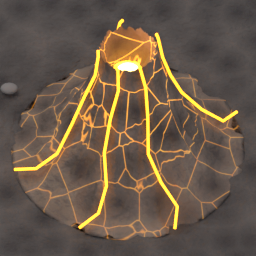
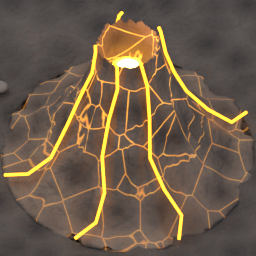
Bozza C: vulcano piu' grande, barre vita avversario dentro il campo e nascoste finche' non si muovono
Claude-Session: https://claude.ai/code/session_01EeKiG8y1kcPbdSHUHGW8AA

Changed region(s): [[0.0, 0.0312, 1.0, 1.0]]

diff --git a/bozze/c/extra.js b/bozze/c/extra.js
@@ -49,3 +49,13 @@
     o.onclick=function(){o.remove()};document.body.appendChild(o);
   });
 })();
+
+/* Bozza C: barre vita avversario sempre dentro il campo; finche' un nemico a piena vita non si e' mosso non mostra la barra. */
+(function(){
+  var _hp=hpBar;
+  hpBar=function(u,x,hy,hw){
+    if(u.o===1&&!u.moved&&!u.done&&Math.max(0,u.hv===undefined?u.hp:u.hv)>=mhp(u))return;
+    var top=Math.max(9,Math.round(lay.cs*.22))*0+4;
+    return _hp(u,x,Math.max(hy,top),hw);
+  };
+})();
